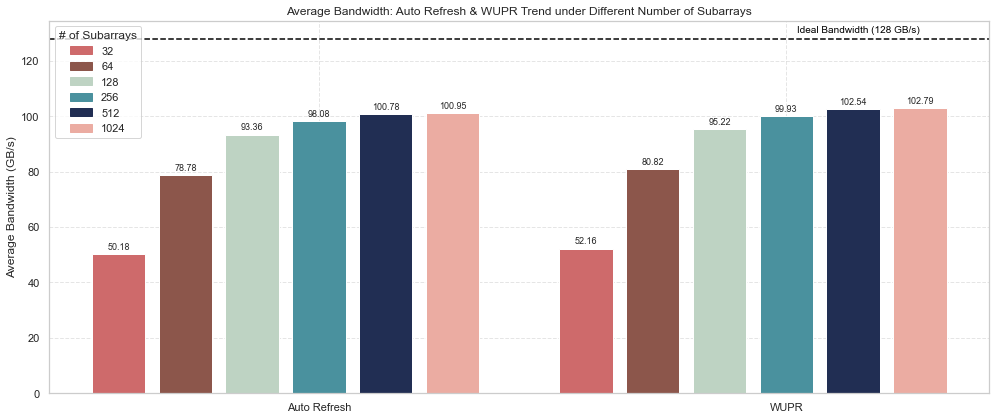
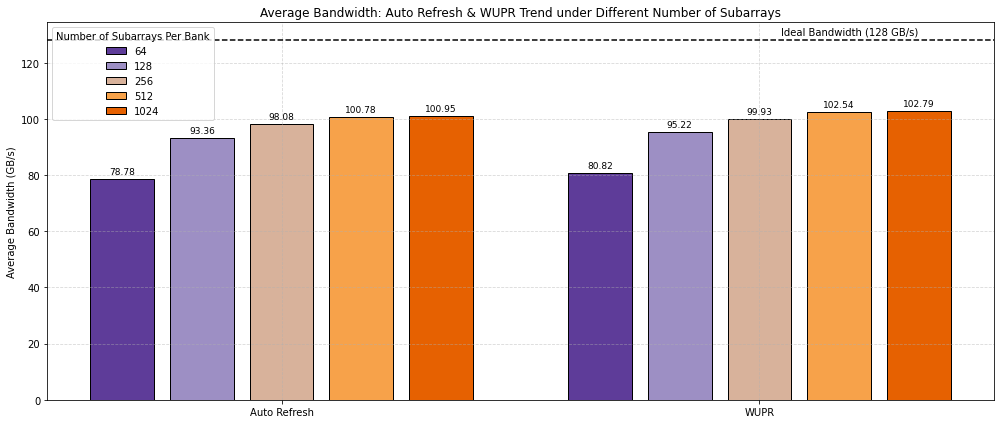
Update script

diff --git a/DRAM_System_Analysis/Data/read_subarray_data.py b/DRAM_System_Analysis/Data/read_subarray_data.py
@@ -4,6 +4,7 @@ import matplotlib.pyplot as plt
 import re
 import numpy as np
 from matplotlib.patches import Patch
+from matplotlib.colors import LinearSegmentedColormap
 
 # Load the JSON data into a DataFrame
 def load_trace_summary(json_path):
@@ -16,62 +17,72 @@ def extract_ndbl_size(name):
     match = re.search(r'_Ndbl_(\d+)', name)
     return int(match.group(1)) if match else None
 
-# Split and plot total_energy (converted to mJ), grouped and color-coded by subarray count
+# Split and plot memory_system_cycles grouped and color-coded by subarray count
 def split_and_plot(df):
     # Add Group and Subarray columns
     df['Group'] = df['name'].apply(lambda x: 'Auto Refresh' if 'AR' in x else 'WUPR')
     df['Subarray'] = df['name'].apply(extract_ndbl_size)
 
-    # Convert total_energy from nJ to mJ (1 mJ = 1e6 nJ)
-    df['total_energy_mJ'] = df['total_energy'] / 1e6
+    # Remove Subarray == 32
+    df = df[df['Subarray'] != 32]
 
-    # Sort within each group by Subarray ascending
-    group_ar = df[df['Group'] == 'Auto Refresh'].sort_values(by='Subarray').reset_index(drop=True)
-    group_non_ar = df[df['Group'] == 'WUPR'].sort_values(by='Subarray').reset_index(drop=True)
+    # Use memory_system_cycles directly (no unit conversion)
+    df['memory_system_cycles_val'] = df['memory_system_cycles']
 
-    # Create separator row with NaN or empty string depending on dtype
+    # Sort within each group by memory_system_cycles ascending
+    group_ar = df[df['Group'] == 'Auto Refresh'].sort_values(by='memory_system_cycles_val').reset_index(drop=True)
+    group_non_ar = df[df['Group'] == 'WUPR'].sort_values(by='memory_system_cycles_val').reset_index(drop=True)
+
+    # Create separator row
     separator = pd.DataFrame([{col: (np.nan if df[col].dtype.kind in 'fiu' else '') for col in df.columns}])
     separator['Group'] = 'Separator'
 
-    # Combine groups with separator in between
+    # Combine groups with separator
     df_sorted = pd.concat([group_ar, separator, group_non_ar], ignore_index=True)
 
-    # Define custom color palette for Subarray counts
-    custom_palette = {
-        32: "#ce6a6b",
-        64: "#8c564b",
-        128: "#bed3c3",
-        256: "#4a919e",
-        512: "#212e53",
-        1024: "#ebaca2"
-    }
+    # Get unique subarray counts (excluding NaN)
+    subarray_vals = sorted(df_sorted['Subarray'].dropna().unique())
 
-    # Map Subarray counts to colors; default white for unknown/missing
-    df_sorted['Color'] = df_sorted['Subarray'].map(custom_palette).fillna('#ffffff')
+    # Create purple-to-yellow colormap
+    cmap = LinearSegmentedColormap.from_list("purple_yellow", ["#5e3c99", "#b2abd2", "#fdb863", "#e66101"], N=len(subarray_vals))
+    color_list = [cmap(i / (len(subarray_vals) - 1)) for i in range(len(subarray_vals))]
+    color_palette = dict(zip(subarray_vals, color_list))
 
+    # Map colors
+    df_sorted['Color'] = df_sorted['Subarray'].map(color_palette).fillna('#ffffff')
+
+    # Plotting
     plt.figure(figsize=(14, 6))
     bar_positions = list(range(len(df_sorted)))
     bar_colors = df_sorted['Color'].tolist()
 
-    # Plot bars of total_energy in mJ
-    plt.bar(bar_positions, df_sorted['total_energy_mJ'], color=bar_colors)
+    bars = plt.bar(
+        bar_positions,
+        df_sorted['memory_system_cycles_val'],
+        color=bar_colors,
+        edgecolor='black'
+    )
 
-    # Add value labels above bars (skip NaN), formatted to 3 decimals for mJ
-    for idx, val in enumerate(df_sorted['total_energy_mJ']):
+    # Value labels
+    for idx, val in enumerate(df_sorted['memory_system_cycles_val']):
         if pd.notna(val):
-            plt.text(idx, val + 0.001, f'{val:.3f}', ha='center', va='bottom', fontsize=9)
+            plt.text(idx, val + max(df_sorted['memory_system_cycles_val']) * 0.01, f'{val}', ha='center', va='bottom', fontsize=9)
 
-    # X-axis ticks positioned at center of each group
+    # X-axis group labels
     ar_center = len(group_ar) // 2
     wupr_center = len(group_ar) + 1 + len(group_non_ar) // 2
     plt.xticks([ar_center, wupr_center], ['Auto Refresh', 'WUPR'])
 
-    # Create legend patches sorted by subarray count ascending
-    legend_elements = [Patch(color=color, label=str(sub)) for sub, color in sorted(custom_palette.items())]
-    plt.legend(handles=legend_elements, title='# of Subarrays')
+    # Legend with integer labels
+    legend_elements = [
+        Patch(facecolor=color_palette[sub], edgecolor='black', label=f'{int(sub)}')
+        for sub in subarray_vals
+    ]
+    plt.legend(handles=legend_elements, title='Number of Subarrays Per Bank')
 
-    plt.ylabel("Total Energy (mJ)")
-    plt.title("Total Energy (mJ): Auto Refresh & WUPR Trend under Different Number of Subarrays")
+    # Labels and layout
+    plt.ylabel("Memory System Cycles")
+    plt.title("Memory System Cycles: Auto Refresh & WUPR Trend under Different Number of Subarrays")
     plt.grid(True, linestyle='--', alpha=0.5)
     plt.tight_layout()
     plt.show()

diff --git a/DRAM_System_Analysis/Data/energy_num_subarray_plot.py b/DRAM_System_Analysis/Data/energy_num_subarray_plot.py
@@ -4,6 +4,7 @@ import matplotlib.pyplot as plt
 import re
 import numpy as np
 from matplotlib.patches import Patch
+from matplotlib.colors import LinearSegmentedColormap
 
 # Load the JSON data into a DataFrame
 def load_trace_summary(json_path):
@@ -16,62 +17,72 @@ def extract_ndbl_size(name):
     match = re.search(r'_Ndbl_(\d+)', name)
     return int(match.group(1)) if match else None
 
-# Split and plot total_energy (converted to μJ), grouped and color-coded by subarray count
+# Split and plot total_energy (converted from nJ to mJ), grouped and color-coded by subarray count
 def split_and_plot(df):
     # Add Group and Subarray columns
     df['Group'] = df['name'].apply(lambda x: 'Auto Refresh' if 'AR' in x else 'WUPR')
     df['Subarray'] = df['name'].apply(extract_ndbl_size)
 
-    # Convert total_energy from pJ to μJ (1 μJ = 1e6 pJ)
-    df['total_energy_uJ'] = df['total_energy'] / 1e6
+    # Remove Subarray == 32
+    df = df[df['Subarray'] != 32]
 
-    # Sort within each group by total_energy_uJ ascending
-    group_ar = df[df['Group'] == 'Auto Refresh'].sort_values(by='total_energy_uJ').reset_index(drop=True)
-    group_non_ar = df[df['Group'] == 'WUPR'].sort_values(by='total_energy_uJ').reset_index(drop=True)
+    # Convert total_energy from nJ to mJ (divide by 1e6)
+    df['total_energy_mJ'] = df['total_energy'] / 1e6
 
-    # Create separator row with NaN or empty string depending on dtype
+    # Sort within each group by total_energy_mJ ascending
+    group_ar = df[df['Group'] == 'Auto Refresh'].sort_values(by='total_energy_mJ').reset_index(drop=True)
+    group_non_ar = df[df['Group'] == 'WUPR'].sort_values(by='total_energy_mJ').reset_index(drop=True)
+
+    # Create separator row
     separator = pd.DataFrame([{col: (np.nan if df[col].dtype.kind in 'fiu' else '') for col in df.columns}])
     separator['Group'] = 'Separator'
 
-    # Combine groups with separator in between
+    # Combine groups with separator
     df_sorted = pd.concat([group_ar, separator, group_non_ar], ignore_index=True)
 
-    # Define custom color palette for Subarray counts
-    custom_palette = {
-        32: "#ce6a6b",
-        64: "#8c564b",
-        128: "#bed3c3",
-        256: "#4a919e",
-        512: "#212e53",
-        1024: "#ebaca2"
-    }
+    # Get unique subarray counts (excluding NaN)
+    subarray_vals = sorted(df_sorted['Subarray'].dropna().unique())
 
-    # Map Subarray counts to colors; default white for unknown/missing
-    df_sorted['Color'] = df_sorted['Subarray'].map(custom_palette).fillna('#ffffff')
+    # Create purple-to-yellow colormap
+    cmap = LinearSegmentedColormap.from_list("purple_yellow", ["#5e3c99", "#b2abd2", "#fdb863", "#e66101"], N=len(subarray_vals))
+    color_list = [cmap(i / (len(subarray_vals) - 1)) for i in range(len(subarray_vals))]
+    color_palette = dict(zip(subarray_vals, color_list))
 
+    # Map colors
+    df_sorted['Color'] = df_sorted['Subarray'].map(color_palette).fillna('#ffffff')
+
+    # Plotting
     plt.figure(figsize=(14, 6))
     bar_positions = list(range(len(df_sorted)))
     bar_colors = df_sorted['Color'].tolist()
 
-    # Plot bars of total_energy in μJ
-    bars = plt.bar(bar_positions, df_sorted['total_energy_uJ'], color=bar_colors)
+    bars = plt.bar(
+        bar_positions,
+        df_sorted['total_energy_mJ'],
+        color=bar_colors,
+        edgecolor='black'
+    )
 
-    # Add value labels above bars (skip NaN), formatted to 2 decimals
-    for idx, val in enumerate(df_sorted['total_energy_uJ']):
+    # Value labels
+    for idx, val in enumerate(df_sorted['total_energy_mJ']):
         if pd.notna(val):
-            plt.text(idx, val + 0.01, f'{val:.2f}', ha='center', va='bottom', fontsize=9)
+            plt.text(idx, val + 0.001, f'{val:.3f}', ha='center', va='bottom', fontsize=9)
 
-    # X-axis ticks positioned at center of each group
+    # X-axis group labels
     ar_center = len(group_ar) // 2
     wupr_center = len(group_ar) + 1 + len(group_non_ar) // 2
     plt.xticks([ar_center, wupr_center], ['Auto Refresh', 'WUPR'])
 
-    # Create legend patches sorted by subarray count ascending
-    legend_elements = [Patch(color=color, label=str(sub)) for sub, color in sorted(custom_palette.items())]
-    plt.legend(handles=legend_elements, title='# of Subarrays')
+    # Legend with integer labels
+    legend_elements = [
+        Patch(facecolor=color_palette[sub], edgecolor='black', label=f'{int(sub)}')
+        for sub in subarray_vals
+    ]
+    plt.legend(handles=legend_elements, title='Number of Subarrays Per Bank')
 
-    plt.ylabel("Total Energy (μJ)")
-    plt.title("Total Energy (μJ): Auto Refresh & WUPR Trend under Different Number of Subarrays")
+    # Labels and layout
+    plt.ylabel("Total Energy (mJ)")
+    plt.title("Total Energy (mJ): Auto Refresh & WUPR Trend under Different Number of Subarrays")
     plt.grid(True, linestyle='--', alpha=0.5)
     plt.tight_layout()
     plt.show()

diff --git a/DRAM_System_Analysis/Data/average_bandwidth_trend_num_subarray_group_plot.py b/DRAM_System_Analysis/Data/average_bandwidth_trend_num_subarray_group_plot.py
@@ -3,6 +3,7 @@ import pandas as pd
 import matplotlib.pyplot as plt
 import re
 import numpy as np
+from matplotlib.colors import LinearSegmentedColormap
 
 # Load the JSON data into a DataFrame
 def load_trace_summary(json_path):
@@ -21,36 +22,39 @@ def split_and_plot(df):
     df['Group'] = df['name'].apply(lambda x: 'Auto Refresh' if 'AR' in x else 'WUPR')
     df['Subarray'] = df['name'].apply(extract_ndbl_size)
 
-    # Step 2: Sort within each group by bandwidth
+    # Step 2: Remove rows with Subarray == "32"
+    df = df[df['Subarray'] != "32"]
+
+    # Step 3: Sort within each group by bandwidth
     group_ar = df[df['Group'] == 'Auto Refresh'].sort_values(by='frontend_avg_bandwidth')
     group_non_ar = df[df['Group'] == 'WUPR'].sort_values(by='frontend_avg_bandwidth')
 
-    # Step 3: Add a separator row (NaNs) between groups
+    # Step 4: Add a separator row
     separator = pd.DataFrame([{
         'name': '',
         'frontend_avg_bandwidth': np.nan,
         'Group': 'Separator',
         'Subarray': '',
-        'Color': '#ffffff'  # invisible
+        'Color': '#ffffff'
     }])
 
-    # Step 4: Combine groups with separator
+    # Step 5: Combine groups
     df_sorted = pd.concat([group_ar, separator, group_non_ar], ignore_index=True)
 
-    # Step 5: Define custom color palette for Subarray
-    custom_palette = {
-        "32": "#ce6a6b",
-        "64": "#8c564b",
-        "128": "#bed3c3",
-        "256": "#4a919e",
-        "512": "#212e53",
-        "1024": "#ebaca2"
-    }
+    # Step 6: Create purple-to-yellow colormap
+    unique_subarrays = sorted(df_sorted['Subarray'].unique(), key=lambda x: int(x) if x.isdigit() else 999)
+    if '' in unique_subarrays:
+        unique_subarrays.remove('')
 
-    # Map color to each row (including NaN-safe map)
-    df_sorted['Color'] = df_sorted['Subarray'].map(custom_palette).fillna('#ffffff')
+    n = len(unique_subarrays)
+    cmap = LinearSegmentedColormap.from_list("purple_yellow", ["#5e3c99", "#b2abd2", "#fdb863", "#e66101"], N=n)
+    color_list = [cmap(i / (n - 1)) for i in range(n)]
+    purple_yellow_palette = dict(zip(unique_subarrays, color_list))
 
-    # Step 6: Plotting
+    # Step 7: Assign color
+    df_sorted['Color'] = df_sorted['Subarray'].map(purple_yellow_palette).fillna('#ffffff')
+
+    # Step 8: Plotting
     plt.figure(figsize=(14, 6))
     bar_positions = list(range(len(df_sorted)))
     bar_colors = df_sorted['Color'].tolist()
@@ -58,10 +62,10 @@ def split_and_plot(df):
     bars = plt.bar(
         bar_positions,
         df_sorted['frontend_avg_bandwidth'],
-        color=bar_colors
+        color=bar_colors,
+        edgecolor='black'
     )
 
-    # Add value labels above bars (skip NaNs)
     for idx, val in enumerate(df_sorted['frontend_avg_bandwidth']):
         if pd.notna(val):
             plt.text(
@@ -71,16 +75,13 @@ def split_and_plot(df):
                 fontsize=9
             )
 
-    # Add horizontal line for upper bound
+    # Horizontal line for upper bound
     plt.axhline(
         y=128,
         color='black',
         linestyle='--',
-        linewidth=1.5,
-        label='128 GB/s Upper Bound'
+        linewidth=1.5
     )
-
-    # Add text label for the upper bound
     plt.text(
         x=len(df_sorted) - 1,
         y=128 + 2,
@@ -90,7 +91,7 @@ def split_and_plot(df):
         ha='right'
     )
 
-    # X-axis ticks for group labels
+    # X-axis group labels
     ar_center = len(group_ar) // 2
     wupr_center = len(group_ar) + 1 + len(group_non_ar) // 2
     plt.xticks(
@@ -98,24 +99,19 @@ def split_and_plot(df):
         ['Auto Refresh', 'WUPR']
     )
 
-    # Legend for Subarray count
-    legend_elements = []
-    for sub, color in custom_palette.items():
-        patch = plt.Rectangle((0, 0), 1, 1, color=color)
-        legend_elements.append((sub, patch))
+    # Legend with patches
+    legend_elements = [
+        plt.Rectangle((0, 0), 1, 1, facecolor=purple_yellow_palette[sub], edgecolor='black')
+        for sub in unique_subarrays
+    ]
+    legend_labels = [sub for sub in unique_subarrays]
 
-    # Add the upper bound line to legend
-    # legend_elements.append(("128 GB/s Upper Bound", plt.Line2D([0], [0], color='black', linestyle='--')))
-
-    # Sort and show legend
-    legend_elements.sort(key=lambda x: int(x[0]) if x[0].isdigit() else 999)
     plt.legend(
-        [p for _, p in legend_elements],
-        [l for l, _ in legend_elements],
-        title='# of Subarrays'
+        legend_elements,
+        legend_labels,
+        title='Number of Subarrays Per Bank'
     )
 
-    # Final touches
     plt.ylabel("Average Bandwidth (GB/s)")
     plt.title("Average Bandwidth: Auto Refresh & WUPR Trend under Different Number of Subarrays")
     plt.grid(True, linestyle='--', alpha=0.5)
